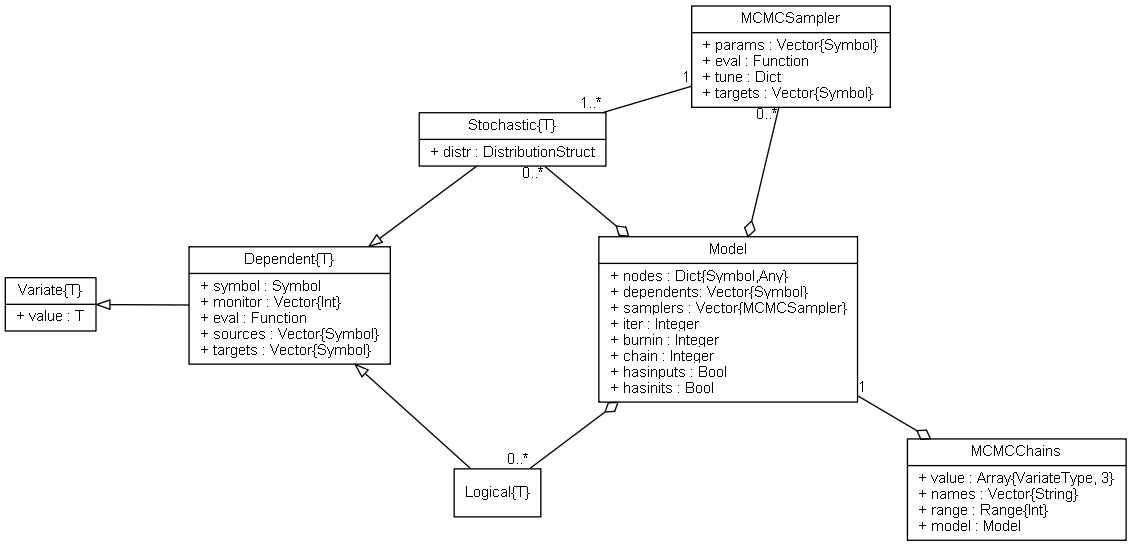
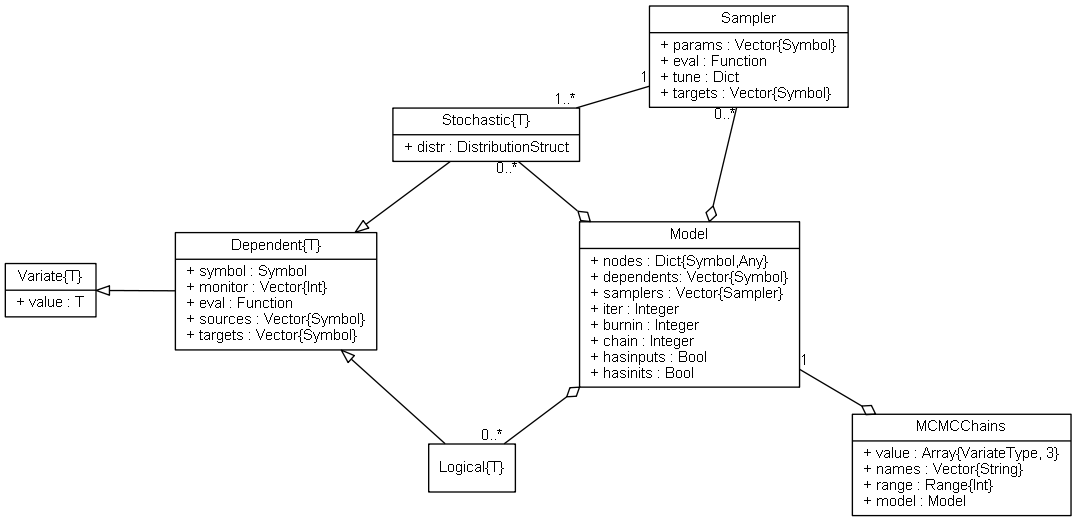
Rename MCMCSampler type to Sampler.

diff --git a/doc/tutorial.rst b/doc/tutorial.rst
@@ -136,7 +136,7 @@ In summary, ``y`` and ``beta`` are stochastic vectors, ``s2`` is a stochastic sc
 Sampling Schemes
 ^^^^^^^^^^^^^^^^
 
-The package provides a flexible system for the specification of schemes to sample stochastic nodes.  Arbitrary blocking of nodes and designation of block-specific samplers is supported.  Furthermore, block-updating of nodes can be performed with samplers provided, defined by the user, or available from other packages.  Schemes are specified as vectors of ``MCMCSampler`` objects.  Constructors are provided for several popular sampling algorithms, including adaptive Metropolis, No-U-Turn (NUTS), and slice sampling.  Example schemes are shown below.  In the first one, NUTS is used for the sampling of ``beta`` and slice for ``s2``.  The two nodes are block together in the second scheme and sampled jointly with NUTS.
+The package provides a flexible system for the specification of schemes to sample stochastic nodes.  Arbitrary blocking of nodes and designation of block-specific samplers is supported.  Furthermore, block-updating of nodes can be performed with samplers provided, defined by the user, or available from other packages.  Schemes are specified as vectors of ``Sampler`` objects.  Constructors are provided for several popular sampling algorithms, including adaptive Metropolis, No-U-Turn (NUTS), and slice sampling.  Example schemes are shown below.  In the first one, NUTS is used for the sampling of ``beta`` and slice for ``s2``.  The two nodes are block together in the second scheme and sampled jointly with NUTS.
 
 .. code-block:: julia
 
@@ -147,7 +147,7 @@ The package provides a flexible system for the specification of schemes to sampl
 	## No-U-Turn Sampling Scheme
 	scheme2 = [NUTS([:beta, :s2])]
 
-Additionally, users are free to create their own samplers with the generic ``MCMCSampler`` constructor.  This is particularly useful in settings were full conditional distributions are of standard forms for some nodes and can be sampled from directly.  Such is the case for the full conditional of :math:`\bm{\beta}` which can be written as
+Additionally, users are free to create their own samplers with the generic ``Sampler`` constructor.  This is particularly useful in settings were full conditional distributions are of standard forms for some nodes and can be sampled from directly.  Such is the case for the full conditional of :math:`\bm{\beta}` which can be written as
 
 .. math::
   p(\bm{\beta} | \sigma^2, \bm{y}) &\propto p(\bm{y} | \bm{\beta}, \sigma^2) p(\bm{\beta}) \\
@@ -166,7 +166,7 @@ whose form is inverse gamma with :math:`n / 2 + \alpha_\pi` shape and :math:`(\b
 
 	## User-Defined Samplers
 
-	Gibbs_beta = MCMCSampler([:beta],
+	Gibbs_beta = Sampler([:beta],
 	  quote
 	    beta = model[:beta]
 	    s2 = model[:s2]
@@ -180,7 +180,7 @@ whose form is inverse gamma with :math:`n / 2 + \alpha_\pi` shape and :math:`(\b
 	  end
 	)
 
-	Gibbs_s2 = MCMCSampler([:s2],
+	Gibbs_s2 = Sampler([:s2],
 	  quote
 	    beta = model[:beta]
 	    s2 = model[:s2]
@@ -211,7 +211,7 @@ The Model Expression Macro
 
 .. function:: @modelexpr(args...)
 
-	A `macro <http://julia.readthedocs.org/en/latest/manual/metaprogramming/#macros>`_ to automate the declaration of ``model`` variables in expression supplied to ``MCMCStocastic``, ``Logical``, and ``MCMCSampler`` constructors. 
+	A `macro <http://julia.readthedocs.org/en/latest/manual/metaprogramming/#macros>`_ to automate the declaration of ``model`` variables in expression supplied to ``MCMCStocastic``, ``Logical``, and ``Sampler`` constructors. 
 
 	**Arguments**
 	
@@ -223,11 +223,11 @@ The Model Expression Macro
 		
 	**Example**
 	
-		Calls to ``@modelexpr`` can be used to shorten the expressions specified in previous calls to ``MCMCSampler``, as shown below.  In essence, this macro call automates the tasks of declaring variables ``beta``, ``s2``, ``xmat``, and ``y``; and returns the same quoted expressions as before but with less coding required.
+		Calls to ``@modelexpr`` can be used to shorten the expressions specified in previous calls to ``Sampler``, as shown below.  In essence, this macro call automates the tasks of declaring variables ``beta``, ``s2``, ``xmat``, and ``y``; and returns the same quoted expressions as before but with less coding required.
 		
 		.. code-block:: julia
 		
-			Gibbs_beta = MCMCSampler([:beta],
+			Gibbs_beta = Sampler([:beta],
 			  @modelexpr(beta, s2, xmat, y,
 			    begin
 			      beta_mean = mean(beta.distr)
@@ -239,7 +239,7 @@ The Model Expression Macro
 			  )
 			)
 
-			Gibbs_s2 = MCMCSampler([:s2],
+			Gibbs_s2 = Sampler([:s2],
 			  @modelexpr(beta, s2, xmat, y,
 			    begin
 			      a = length(y) / 2.0 + s2.distr.shape

diff --git a/doc/mcmc/sampler.rst b/doc/mcmc/sampler.rst
@@ -1,22 +1,22 @@
-.. index:: MCMCSampler
+.. index:: Sampler
 
-.. _section-MCMCSampler:
+.. _section-Sampler:
 
-MCMCSampler
+Sampler
 -----------
 
-Each of the :math:`\{f_j\}_{j=1}^{B}` sampling functions of the :ref:`figure-Gibbs` is implemented as an ``MCMCSampler`` type object, whose fields are summarized herein.  The ``eval`` field is an anonymous function defined as
+Each of the :math:`\{f_j\}_{j=1}^{B}` sampling functions of the :ref:`figure-Gibbs` is implemented as an ``Sampler`` type object, whose fields are summarized herein.  The ``eval`` field is an anonymous function defined as
 
 .. code-block:: julia
 
-	function(model::Model, block::Integer)
+	function(model::Mamba.Model, block::Integer)
 
 where ``model`` contains all model nodes, and ``block`` is an index identifying the corresponding sampling function in a vector of all samplers for the associated model.  Through the arguments, all model nodes and fields can be accessed in the body of the function.  The function may return an updated sample for the nodes identified in its ``params`` field.  Such a return value can be a structure of the same type as the node if the block consists of only one node, or a dictionary of node structures with keys equal to the block node symbols if one or more.  Alternatively, a value of ``nothing`` may be returned.  Return values that are not ``nothing`` will be used to automatically update the node values and propagate them to dependent nodes.  No automatic updating will be done if ``nothing`` is returned.
 
 Declaration
 ^^^^^^^^^^^
 
-``type MCMCSampler``
+``type Sampler``
 
 Fields
 ^^^^^^
@@ -29,9 +29,9 @@ Fields
 Constructor
 ^^^^^^^^^^^
 
-.. function:: MCMCSampler(params::Vector{Symbol}, expr::Expr, tune::Dict=Dict())
+.. function:: Sampler(params::Vector{Symbol}, expr::Expr, tune::Dict=Dict())
 
-	Construct an ``MCMCSampler`` object that defines a sampling function for a block of stochastic nodes.
+	Construct an ``Sampler`` object that defines a sampling function for a block of stochastic nodes.
 	
 	**Arguments**
 	
@@ -41,7 +41,7 @@ Constructor
 		
 	**Value**
 	
-		Returns an ``MCMCSampler`` type object.
+		Returns an ``Sampler`` type object.
 
 	**Example**
 	
@@ -50,10 +50,10 @@ Constructor
 Methods
 ^^^^^^^
 
-.. function:: show(s::MCMCSampler)
+.. function:: show(s::Sampler)
 
     Write a text representation of the defined sampling function to the current output stream.
 
-.. function:: showall(s::MCMCSampler)
+.. function:: showall(s::Sampler)
 
     Write a verbose text representation of the defined sampling function to the current output stream.

diff --git a/doc/mcmc/model.rst b/doc/mcmc/model.rst
@@ -5,7 +5,7 @@
 Model
 ---------
 
-The ``Model`` type is designed to store the set of all model nodes, including parameter set :math:`\Theta` as denoted in  the :ref:`figure-Gibbs`.  In particular, it stores ``Dependent`` type objects in its ``nodes`` dictionary field.  Valid models are ones whose nodes form directed acyclic graphs (DAGs).  Sampling functions :math:`\{f_j\}_{j=1}^{B}` are saved as ``MCMCSampler`` objects in the vector of field ``samplers``.  Vector elements :math:`j=1,\ldots,B` correspond to sampling blocks :math:`\{\Theta_j\}_{j=1}^{B}.`
+The ``Model`` type is designed to store the set of all model nodes, including parameter set :math:`\Theta` as denoted in  the :ref:`figure-Gibbs`.  In particular, it stores ``Dependent`` type objects in its ``nodes`` dictionary field.  Valid models are ones whose nodes form directed acyclic graphs (DAGs).  Sampling functions :math:`\{f_j\}_{j=1}^{B}` are saved as ``Sampler`` objects in the vector of field ``samplers``.  Vector elements :math:`j=1,\ldots,B` correspond to sampling blocks :math:`\{\Theta_j\}_{j=1}^{B}.`
 
 Declaration
 ^^^^^^^^^^^
@@ -17,7 +17,7 @@ Fields
 
 * ``nodes::Dict{Symbol,Any}`` : a dictionary containing all input, logical, and stochastic model nodes.
 * ``dependents::Vector{Symbol}`` : symbols of all ``Dependent`` nodes in topologically sorted order so that a given node in the vector is conditionally independent of subsequent nodes, given the previous ones.
-* ``samplers::Vector{MCMCSampler}`` : sampling functions for updating blocks of stochastic nodes.
+* ``samplers::Vector{Sampler}`` : sampling functions for updating blocks of stochastic nodes.
 * ``iter::Integer`` : current MCMC draw from the target distribution.
 * ``burnin::Integer`` : number of initial draws to discard as a burn-in sequence to allow for convergence.
 * ``chain::Integer`` : current run of the MCMC simulator in a possible sequence of runs.
@@ -28,7 +28,7 @@ Constructor
 ^^^^^^^^^^^
 
 .. function:: Model(; iter::Integer=0, burnin::Integer=0, chain::Integer=1, \
-				samplers::Vector{MCMCSampler}=Array(MCMCSampler, 0), nodes...)
+				samplers::Vector{Sampler}=Array(Sampler, 0), nodes...)
 				
 	Construct an ``Model`` object that defines a model for MCMC simulation.
 	
@@ -254,7 +254,7 @@ Methods
 	
 		See the :ref:`section-Line-Development` section of the tutorial.
 
-.. function:: setsamplers!(m::Model, samplers::Vector{MCMCSampler})
+.. function:: setsamplers!(m::Model, samplers::Vector{Sampler})
 
 	Set the block-samplers for stochastic model nodes.
 	

diff --git a/doc/mcmc.rst b/doc/mcmc.rst
@@ -3,14 +3,14 @@
 MCMC Types
 ==========
 
-The *MCMC* types and their relationships are depicted below with a Unified Modelling Language (UML) diagram.  In the diagram, types are represented with boxes that display their respective names in the top-most panels, and fields in the second panels.  By convention, plus signs denote fields that are publicly accessible, which is always the case for these structures in **julia**.  Hollow triangle arrows point to types that the originator extends.  Solid diamond arrows indicate that a number of instances of the type being pointed to are contained in the originator.  The undirected line between ``MCMCSampler`` and ``Stochastic`` represents a bi-directional association.  Numbers on the graph indicate that there is one (1), zero or more (0..*), or one or more (1..*) instances of a type at the corresponding end of a relationship.
+The *MCMC* types and their relationships are depicted below with a Unified Modelling Language (UML) diagram.  In the diagram, types are represented with boxes that display their respective names in the top-most panels, and fields in the second panels.  By convention, plus signs denote fields that are publicly accessible, which is always the case for these structures in **julia**.  Hollow triangle arrows point to types that the originator extends.  Solid diamond arrows indicate that a number of instances of the type being pointed to are contained in the originator.  The undirected line between ``Sampler`` and ``Stochastic`` represents a bi-directional association.  Numbers on the graph indicate that there is one (1), zero or more (0..*), or one or more (1..*) instances of a type at the corresponding end of a relationship.
 
 .. figure:: images/mcmcUML.png
 	:align: center
 
 	UML relational diagram of *MCMC* types and their fields.
 
-The relationships are as follows.  Type ``Model`` contains a dictionary field (``Dict{Symbol,Any}``) of model nodes and a field (``Vector{MCMCSampler}``) of one or more sampling functions.  Nodes can be one of three types:
+The relationships are as follows.  Type ``Model`` contains a dictionary field (``Dict{Symbol,Any}``) of model nodes and a field (``Vector{Sampler}``) of one or more sampling functions.  Nodes can be one of three types:
 
 	.. index:: Nodes; Stochastic
 	.. index:: Nodes; Logical

diff --git a/doc/samplers/slice.rst b/doc/samplers/slice.rst
@@ -78,13 +78,13 @@ Fields
 * ``width::Vector{Float64}`` : vector of initial widths defining hyperrectangles from which to simulate values.
 
 
-MCMCSampler Constructor
+Sampler Constructor
 ^^^^^^^^^^^^^^^^^^^^^^^
 
 .. function:: Slice(params::Vector{Symbol}, width::Vector{T<:Real}; \
                 transform::Bool=false)
 
-	Construct an ``MCMCSampler`` object for multivariate (shrinkage) slice sampling.  Parameters are assumed to be continuous, but may be constrained or unconstrained.
+	Construct an ``Sampler`` object for multivariate (shrinkage) slice sampling.  Parameters are assumed to be continuous, but may be constrained or unconstrained.
 	
 	**Arguments**
 	
@@ -94,7 +94,7 @@ MCMCSampler Constructor
 
 	**Value**
 	
-		Returns an ``MCMCSampler`` type object.
+		Returns an ``Sampler`` type object.
 
 	**Example**
 	
@@ -131,13 +131,13 @@ Stand-Alone Function
 		.. literalinclude:: slice.jl
 			:language: julia
 	
-MCMCSampler Constructor
+Sampler Constructor
 ^^^^^^^^^^^^^^^^^^^^^^^
 
 .. function:: SliceWG(params::Vector{Symbol}, width::Vector{T<:Real}; \
                 transform::Bool=false)
 
-	Construct an ``MCMCSampler`` object for univariate (shrinkage) slice-within-Gibbs sampling.  Parameters are assumed to be continuous, but may be constrained or unconstrained.
+	Construct an ``Sampler`` object for univariate (shrinkage) slice-within-Gibbs sampling.  Parameters are assumed to be continuous, but may be constrained or unconstrained.
 	
 	**Arguments**
 	
@@ -147,7 +147,7 @@ MCMCSampler Constructor
 
 	**Value**
 	
-		Returns an ``MCMCSampler`` type object.
+		Returns an ``Sampler`` type object.
 
 	**Example**
 	

diff --git a/doc/samplers/miss.rst b/doc/samplers/miss.rst
@@ -5,12 +5,12 @@ Missing Values Sampler (MISS)
 
 A sampler to simulate missing output values from their likelihood distributions.
 
-MCMCSampler Constructor
+Sampler Constructor
 ^^^^^^^^^^^^^^^^^^^^^^^
 
 .. function:: MISS(params::Vector{Symbol})
 
-	Construct an ``MCMCSampler`` object to sampling missing output values.  The constructor should only be used to sample stochastic nodes upon which no other stochastic node depends.  So-called 'output nodes' can be identified with the :func:`keys` function.  Moreover, when the ``MISS`` constructor is included in a vector of ``MCMCSamplers`` to define a sampling scheme, it should be positioned at the beginning of the vector.  This ensures that missing output values are updated before any other samplers are executed.
+	Construct an ``Sampler`` object to sampling missing output values.  The constructor should only be used to sample stochastic nodes upon which no other stochastic node depends.  So-called 'output nodes' can be identified with the :func:`keys` function.  Moreover, when the ``MISS`` constructor is included in a vector of ``Sampler`` objects to define a sampling scheme, it should be positioned at the beginning of the vector.  This ensures that missing output values are updated before any other samplers are executed.
 	
 	**Arguments**
 	
@@ -18,7 +18,7 @@ MCMCSampler Constructor
 
 	**Value**
 	
-		Returns an ``MCMCSampler`` type object.
+		Returns an ``Sampler`` type object.
 		
 	**Example**
 	

diff --git a/doc/samplers/nuts.rst b/doc/samplers/nuts.rst
@@ -104,13 +104,13 @@ Fields
 * ``t0::Float64`` : dual averaging parameter, fixed at :math:`t_0 = 10`.
 * ``target::Float64`` : target acceptance rate for the adaptive algorithm.
 
-MCMCSampler Constructor
+Sampler Constructor
 ^^^^^^^^^^^^^^^^^^^^^^^
 
 .. function:: NUTS(params::Vector{Symbol}; dtype::Symbol=:forward, \
 				target::Real=0.6)
 
-	Construct an ``MCMCSampler`` object for No-U-Turn sampling, with the algorithm's step size parameter adaptively tuned during burn-in iterations.  Parameters are assumed to be continuous, but may be constrained or unconstrained.
+	Construct an ``Sampler`` object for No-U-Turn sampling, with the algorithm's step size parameter adaptively tuned during burn-in iterations.  Parameters are assumed to be continuous, but may be constrained or unconstrained.
 	
 	**Arguments**
 	
@@ -122,7 +122,7 @@ MCMCSampler Constructor
 
 	**Value**
 	
-		Returns an ``MCMCSampler`` type object.
+		Returns an ``Sampler`` type object.
 
 	**Example**
 	

diff --git a/doc/samplers/amwg.rst b/doc/samplers/amwg.rst
@@ -87,13 +87,13 @@ Fields
 * ``sigma::Vector{Float64}`` : updated values of the proposal standard deviations if ``adapt = true``, and the user-defined values otherwise.
 * ``target::Real`` : target acceptance rate for the adaptive algorithm.
 
-MCMCSampler Constructor
+Sampler Constructor
 ^^^^^^^^^^^^^^^^^^^^^^^
 
 .. function:: AMWG(params::Vector{Symbol}, sigma::Vector{T<:Real}; \
 				adapt::Symbol=:all, batchsize::Integer=50, target::Real=0.44)
 
-	Construct an ``MCMCSampler`` object for adaptive Metropolis-within-Gibbs sampling.  Parameters are assumed to be continuous, but may be constrained or unconstrained.
+	Construct an ``Sampler`` object for adaptive Metropolis-within-Gibbs sampling.  Parameters are assumed to be continuous, but may be constrained or unconstrained.
 	
 	**Arguments**
 	
@@ -108,7 +108,7 @@ MCMCSampler Constructor
 
 	**Value**
 	
-		Returns an ``MCMCSampler`` type object.
+		Returns an ``Sampler`` type object.
 
 	**Example**
 	

diff --git a/doc/samplers/amm.rst b/doc/samplers/amm.rst
@@ -86,13 +86,13 @@ Fields
 * ``SigmaF::Cholesky{Float64}`` : factorization of the non-adaptive covariance matrix.
 * ``SigmaLm::Matrix{Float64}`` : lower-triangular factorization of the adaptively tuned covariance matrix.
 
-MCMCSampler Constructor
+Sampler Constructor
 ^^^^^^^^^^^^^^^^^^^^^^^
 
 .. function:: AMM(params::Vector{Symbol}, Sigma::Matrix{T<:Real}; \
 				adapt::Symbol=:all)
 
-	Construct an ``MCMCSampler`` object for adaptive mixture Metropolis sampling.  Parameters are assumed to be continuous, but may be constrained or unconstrained.
+	Construct an ``Sampler`` object for adaptive mixture Metropolis sampling.  Parameters are assumed to be continuous, but may be constrained or unconstrained.
 	
 	**Arguments**
 	
@@ -105,7 +105,7 @@ MCMCSampler Constructor
 
 	**Value**
 	
-		Returns an ``MCMCSampler`` type object.
+		Returns an ``Sampler`` type object.
 
 	**Example**
 	

diff --git a/doc/intro.rst b/doc/intro.rst
@@ -32,7 +32,7 @@ A summary of the steps involved in using the package to perform MCMC simulation 
  
 		a. An ``Stochastic`` object for each model term that has a distributional specification.  This includes parameters and data, such as the regression parameters ``b0``, ``b1``, and ``s2`` that have prior distributions and ``y`` that has a likelihood specification.
 
-		b. A vector of ``MCMCSampler`` objects containing supplied, user-defined, or external functions :math:`\{f_j\}_{j=1}^{B}` for sampling each parameter block :math:`\Theta_j`.
+		b. A vector of ``Sampler`` objects containing supplied, user-defined, or external functions :math:`\{f_j\}_{j=1}^{B}` for sampling each parameter block :math:`\Theta_j`.
 
 		c. An ``Model`` object from the resulting stochastic nodes and sampler vector.
 

diff --git a/doc/samplers.rst b/doc/samplers.rst
@@ -3,7 +3,7 @@
 Sampling Functions
 ==================
 
-A collection of functions are provided for simulating draws from from distributions that can be specified up to constants of proportionalities.  Included are stand-alone functions as well as :ref:`section-MCMCSampler` constructors for use with the :func:`mcmc` engine.
+A collection of functions are provided for simulating draws from from distributions that can be specified up to constants of proportionalities.  Included are stand-alone functions as well as :ref:`section-Sampler` constructors for use with the :func:`mcmc` engine.
 
 .. toctree::
 	:maxdepth: 1
